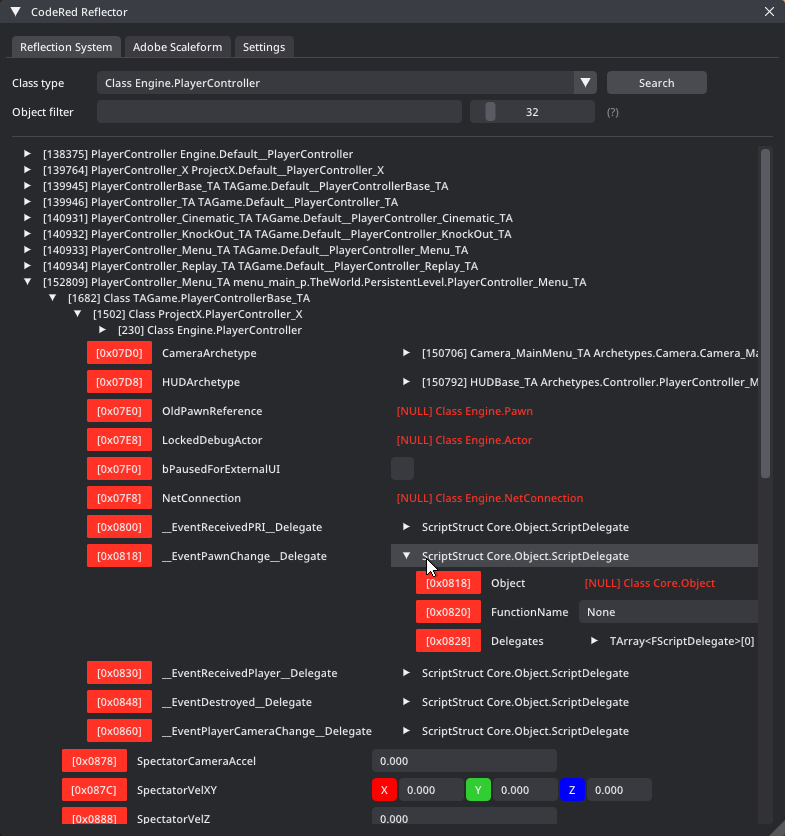
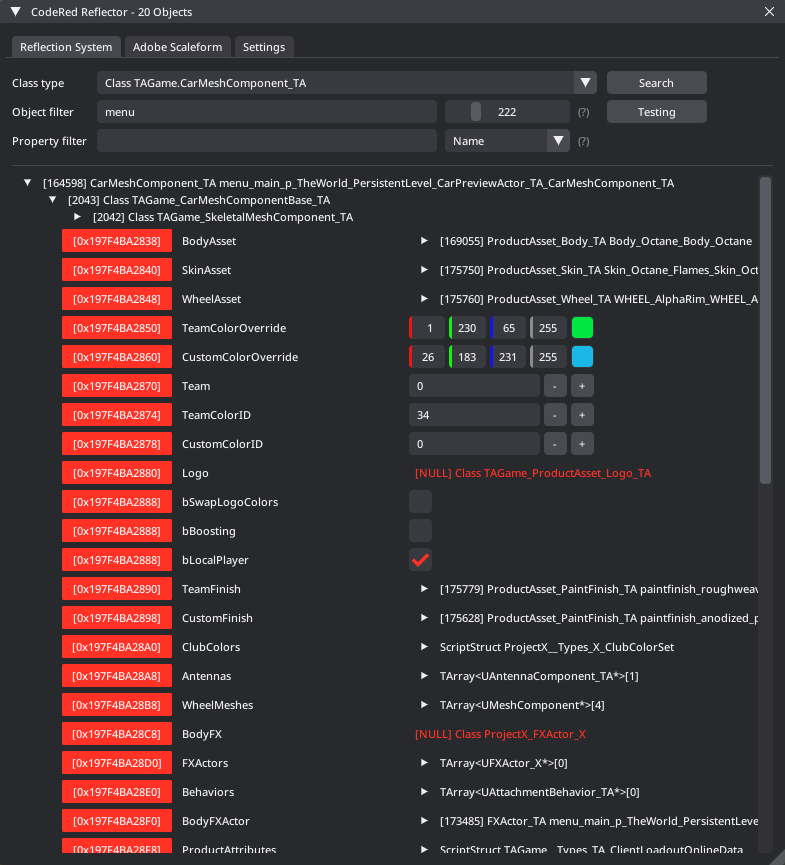
Initial Commit

diff --git a/changelog.html b/changelog.html
@@ -53,6 +53,7 @@
 		    <nav id="docs-nav" class="docs-nav navbar">
 			    <ul class="section-items list-unstyled nav flex-column pb-3">
                     <li class="nav-item section-title mt-3"><a class="nav-link scrollto" href="#section-3"><span class="theme-icon-holder me-2"><i class="fas fa-book"></i></span>Module Changelog</a></li>
+                    <li class="nav-item"><a class="nav-link scrollto" href="#item-4-0-0">Version 3.0.0</a></li>
                     <li class="nav-item"><a class="nav-link scrollto" href="#item-3-9-9">Version 2.9.9</a></li>
                     <li class="nav-item"><a class="nav-link scrollto" href="#item-3-9-8">Version 2.9.8</a></li>
                     <li class="nav-item"><a class="nav-link scrollto" href="#item-3-9-7">Version 2.9.7</a></li>
@@ -209,10 +210,22 @@
                 <article class="docs-article" id="section-3">
                     <h1 class="docs-heading">Changelog</h1>
 
+                        <section class="docs-section" id="item-4.0.0">
+                        <h2 class="section-heading">Version 3.0.0 (April 28th 2026)</h2>                  
+                            <h5>- Easy Anti-Cheat has been added, CodeRed will only work with the "-noeac" option from here on out.</h5>
+                            <h5>- Increased the max limit of the <code>imgui_reflector_object_limit</code> setting from "256" to "1024" because why not.</h5>
+                            <h5>- Added a "property filter" box in the reflector window that lets you filter the properties in classes by either their name or value.</h5>
+                            <h5>- Added two new parameters for the <code>database_dump_playlists</code> command, <code>playlist_bool_enforce_ddos_protection</code> and <code>playlist_bool_enforce_firewall_protections</code>.</h5>
+                            <h5>- Fixed a crash with the reflector window that happened when trying to read TArrays with "FScriptDelegate"'s in them, such as the "OnlineSubsystemSteamworks" class.</h5>
+                            <h5>- Fixed the clock at noon displaying "0:00 PM" instead of "12:00 PM" if you had the <code>imgui_clock_24</code> setting set to false.</h5>
+                            <h5>- Updated the internal SDK to the latest version of Rocket League.</h5>
+                            <h5>- Upgraded the internal ImGui framework to version 1.92.7.</h5>
+                        </section>
+
                         <section class="docs-section" id="item-3-9-9">
                         <h2 class="section-heading">Version 2.9.9 (March 23rd 2026)</h2>                  
                             <h5>- Added a new setting <code>imgui_clock_weekday</code>, which will also show what day it is in the clock overlay window.</h5>
-                            <h5>- Fixed the clock at midnight displaying "00:00 AM" instead of "12:00 AM" if you had the "imgui_clock_24" setting set to false.</h5>
+                            <h5>- Fixed the clock at midnight displaying "00:00 AM" instead of "12:00 AM" if you had the <code>imgui_clock_24</code> setting set to false.</h5>
                             <h5>- Updated the internal SDK to the latest version of Rocket League.</h5>
                         </section>
 
@@ -221,7 +234,7 @@
                             <h5>- Added a new setting <code>interface_disable_playlist_mmr</code>, which disables the new built in mmr on the playlist selection screen.</h5>
                             <h5>- The decal dropdown box in the garage tab now only shows decals that can be equipped to your current car, as opposed to every decal in the game.</h5>
                             <h5>- Removed the <code>imgui_draw_clock</code> setting, if you want to use the clock just manually open the window yourself.</h5>
-                            <h5>- Renamed the `interface_vote_to_forfiet` command to `interface_vote_to_forfeit`, fixing a typo.</h5>
+                            <h5>- Renamed the <code>interface_vote_to_forfiet</code> command to <code>interface_vote_to_forfeit</code>, fixing a typo.</h5>
                             <h5>- Fixed nested TArrays in the reflector window not showing how many elements are in the array in their name.</h5>
                             <h5>- Fixed a rare crash that could happen upon injection related to parsing your actual loadout to a CodeRed one.</h5>
                             <h5>- Fixed the new built in mmr on playlists being all out of whack on the main menu.</h5>

diff --git a/arguments.html b/arguments.html
@@ -923,6 +923,14 @@
                                     <th class="theme-bg-light"><b>playlist_bool_allow_eac_terminations</b></th>
                                     <td>true</td>
                                 </tr>
+                                <tr>
+                                    <th class="theme-bg-light"><b>playlist_bool_enforce_ddos_protection</b></th>
+                                    <td>true</td>
+                                </tr>
+                                <tr>
+                                    <th class="theme-bg-light"><b>playlist_bool_enforce_firewall_protections</b></th>
+                                    <td>true</td>
+                                </tr>
                             </tbody>
                         </table>
 					</section>

diff --git a/documentation.html b/documentation.html
@@ -369,7 +369,7 @@
                                         <td>Use objects full names instead of their address for the json exporter in reflector window.</td>
                                     </tr>
                                     <tr>
-                                        <th class="theme-bg-light"><b>imgui_reflector_object_limit &lt1-256&gt</b></th>
+                                        <th class="theme-bg-light"><b>imgui_reflector_object_limit &lt1-1024&gt</b></th>
                                         <td>The limit of object instances to search for and display with the reflector window.</td>
                                     </tr>
                                     <tr>